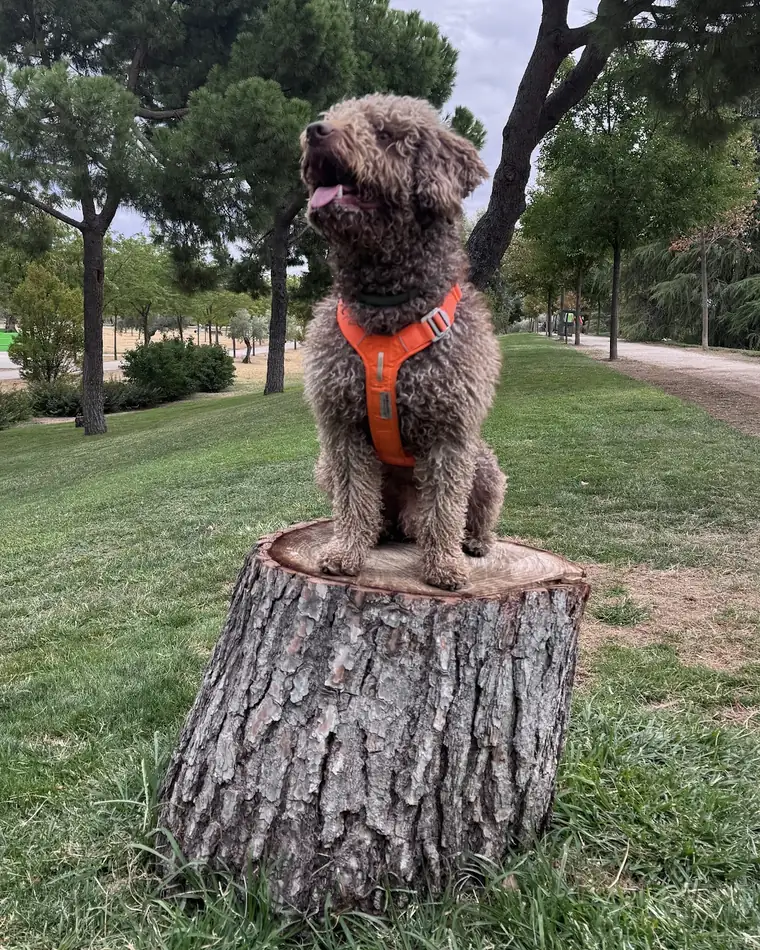
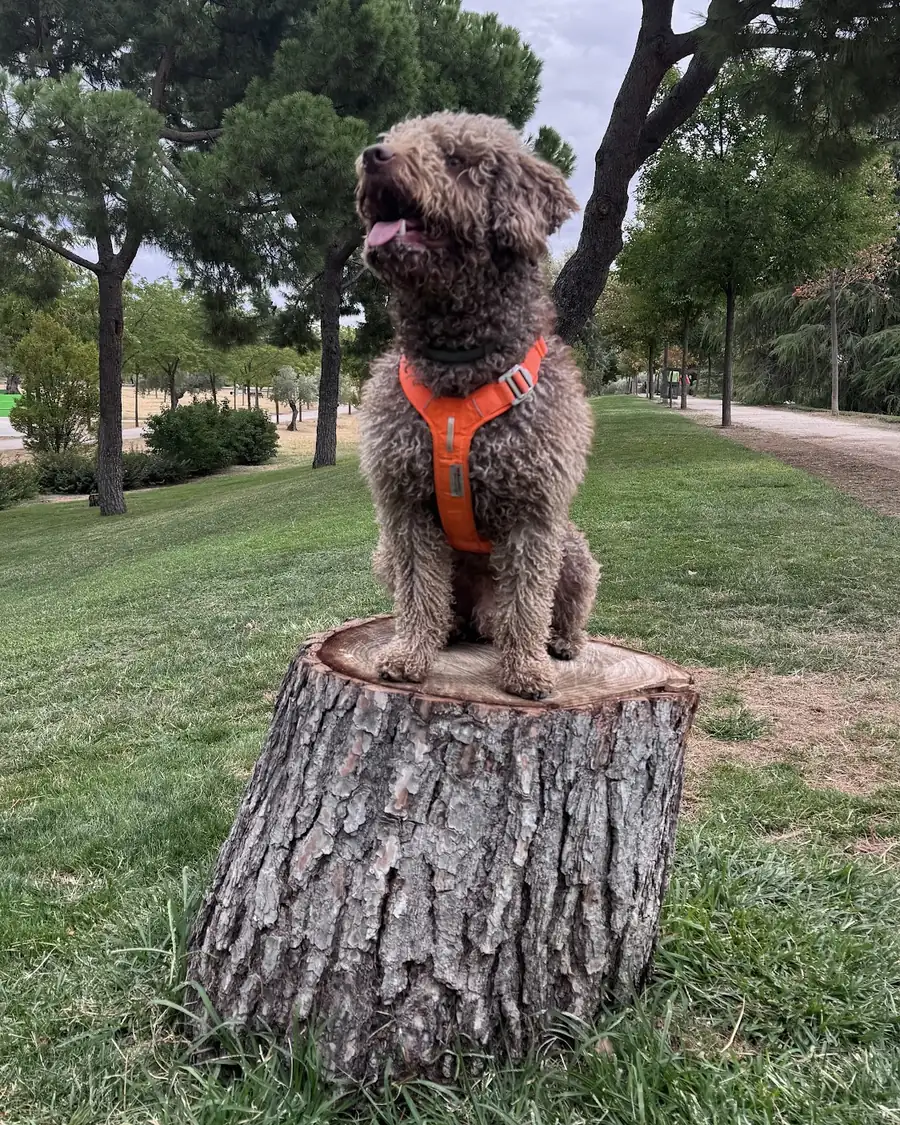
J'a Dog: las fotos de los animales pasan a ser lo principal
- Fotos nuevas de su ficha de Google: perritos en la bañera de spa, perro
  rizado en la mesa de trabajo, perrito blanco en la mesa y el salón con las
  peluqueras y un perro. Fuera la de la estantería y la de la pared.
- Escritorio: foto del perro grande en la portada con el logo como sello,
  fotos mucho mayores en cada lámina y una foto nueva en spa, escuela y cita.
- Móvil: foto a sangre arriba de cada lámina (antes la portada, el
  mantenimiento y la peluquería no llevaban ninguna) y la pausa fija la parte
  de arriba para que la foto se vea.
- iPad en vertical: láminas apiladas con la foto arriba.

diff --git a/jadog-cuaderno-de-campo/index.html b/jadog-cuaderno-de-campo/index.html
@@ -231,7 +231,7 @@ button{font:inherit;color:inherit;background:none;border:0;padding:0;margin:0;cu
 .menu-pie p{margin:12px 0 0;font-size:14px;line-height:1.5;color:var(--tinta-2)}
 
 /* ---------- 0 · portada ---------- */
-.portada-grid{display:grid;grid-template-columns:minmax(0,1.1fr) minmax(0,.9fr);grid-template-areas:"texto cumbre";gap:clamp(24px,5vw,72px);align-items:center}
+.portada-grid{display:grid;grid-template-columns:minmax(0,1fr) minmax(0,1fr);grid-template-areas:"texto cumbre";gap:clamp(24px,5vw,72px);align-items:center}
 .portada-texto{grid-area:texto}
 .portada h1{font-size:clamp(3.4rem, 8.6vw, 8rem);line-height:.9;letter-spacing:-.02em;font-weight:400;margin-bottom:26px}
 .portada h1 em{display:inline-block;color:var(--liquen);margin-left:.45em}
@@ -240,10 +240,10 @@ button{font:inherit;color:inherit;background:none;border:0;padding:0;margin:0;cu
 .nota-google{display:flex;align-items:center;gap:12px;font:500 14px/1.2 var(--f-cond);letter-spacing:.12em;text-transform:uppercase;color:rgba(232,211,180,.72);margin:0}
 .nota-google b{font:400 2.4rem/1 var(--f-serif);letter-spacing:0;color:var(--pergamino);text-transform:none}
 .estrellas{color:var(--liquen);letter-spacing:.1em}
-.cumbre{grid-area:cumbre;position:relative;width:min(100%, 62vh, 520px);aspect-ratio:1/1.04;justify-self:center}
-.cumbre .logo{position:absolute;left:0;top:0;width:82%;height:auto;overflow:visible;filter:drop-shadow(0 26px 40px rgba(0,0,0,.45))}
-.ejemplar{position:absolute;right:0;bottom:0;width:44%;transform:rotate(4deg)}
-.ejemplar .foto{aspect-ratio:760/950}
+.cumbre{grid-area:cumbre;position:relative;width:min(100%, 70vh, 600px);aspect-ratio:1/1.06;justify-self:center}
+.cumbre .logo{position:absolute;left:-2%;top:-2%;width:50%;z-index:3;height:auto;overflow:visible;filter:drop-shadow(0 26px 40px rgba(0,0,0,.45))}
+.ejemplar{position:absolute;right:0;bottom:0;width:80%;transform:rotate(2.4deg)}
+.ejemplar .foto{aspect-ratio:900/1125}
 .colgante{position:absolute;left:-34px;bottom:12%;z-index:2;background:var(--pergamino-2) var(--grano);color:var(--tinta);padding:9px 13px 9px 25px;
   font:600 11px/1.25 var(--f-cond);letter-spacing:.14em;text-transform:uppercase;transform:rotate(-9deg);transform-origin:100% 50%;
   clip-path:polygon(16px 0,100% 0,100% 100%,16px 100%,0 50%);box-shadow:0 8px 18px -10px rgba(0,0,0,.6)}
@@ -256,14 +256,14 @@ button{font:inherit;color:inherit;background:none;border:0;padding:0;margin:0;cu
 @keyframes gotea{to{background-position-y:14px}}
 
 /* ---------- 1 · antes de que lo necesite ---------- */
-.antes-grid{display:grid;grid-template-columns:minmax(0,1fr) minmax(0,1.05fr);gap:clamp(28px,5vw,80px);align-items:center}
+.antes-grid{display:grid;grid-template-columns:minmax(0,.72fr) minmax(0,1.28fr);gap:clamp(28px,5vw,80px);align-items:center}
 .antes-grid .h2{max-width:11ch;margin-bottom:22px}
 .tarifa{display:flex;align-items:center;gap:14px;margin-top:22px;padding:14px 16px;border:1.5px solid rgba(47,90,60,.45);max-width:470px}
 .tarifa svg{width:40px;height:40px;flex:none;stroke:var(--bosque);fill:none;stroke-width:1.4;stroke-linecap:round}
 .tarifa p{margin:0;font-size:15.5px;line-height:1.4}
 .tarifa b{display:block;font:500 1.25rem/1.15 var(--f-serif)}
 .antes-foto{position:relative;padding-bottom:40px}
-.antes-foto .marco{max-width:calc(75vh + 18px)}
+.antes-foto .marco{max-width:calc(98vh + 18px)}
 .antes-foto .marco .foto{aspect-ratio:1300/794}
 .todavia{position:absolute;left:-28px;bottom:0;width:min(290px,70%);transform:rotate(-2deg)}
 .todavia h3{font-size:1.5rem;margin-bottom:8px}
@@ -272,7 +272,7 @@ button{font:inherit;color:inherit;background:none;border:0;padding:0;margin:0;cu
 .todavia .mano{margin-top:10px;font-size:1.45rem}
 
 /* ---------- 2 · peluquería canina ---------- */
-.pelu-grid{display:grid;grid-template-columns:minmax(0,1.55fr) minmax(0,.75fr);gap:clamp(28px,4vw,64px);align-items:center}
+.pelu-grid{display:grid;grid-template-columns:minmax(0,1.15fr) minmax(0,1fr);gap:clamp(28px,4vw,64px);align-items:center}
 .pelu-grid .h2{margin-bottom:10px}
 .pelu-grid .entrada{margin-bottom:18px}
 .mantos li{display:grid;grid-template-columns:minmax(0,.8fr) minmax(0,1fr) minmax(0,1.35fr);gap:18px;align-items:baseline;padding:13px 0;border-top:1px solid rgba(232,211,180,.16)}
@@ -282,24 +282,29 @@ button{font:inherit;color:inherit;background:none;border:0;padding:0;margin:0;cu
 .razas{margin:0;font-size:14.5px;color:rgba(232,211,180,.62)}
 .tecnicas{margin:0;font-size:16px;color:var(--pergamino)}
 .pelu-pie{display:flex;flex-wrap:wrap;gap:6px 22px;margin-top:16px;font:600 12.5px/1.4 var(--f-cond);letter-spacing:.14em;text-transform:uppercase;color:var(--liquen)}
-.pelu-foto .foto{aspect-ratio:1100/885}
-.pelu-foto{transform:rotate(2.5deg)}
+.pelu-foto .foto{aspect-ratio:1300/1046}
+.pelu-foto{transform:rotate(2.2deg);width:84%;margin-left:auto}
+/* peluquería: el caniche en grande y el perrito de la mesa asomando por debajo */
+@media (min-width:761px){.pelu-grid .h2{font-size:clamp(2.3rem,4.4vw,3.9rem)}}
+.pelu-fotos{position:relative;width:100%;max-width:560px;justify-self:end;padding-bottom:56px}
+.pelu-foto2{position:absolute;left:0;bottom:0;width:48%;transform:rotate(-4deg)}
+.pelu-foto2 .foto{aspect-ratio:1000/687}
 
 /* ---------- 3 · spa ---------- */
-.spa-grid{display:grid;grid-template-columns:minmax(0,1.3fr) minmax(0,.7fr);gap:clamp(28px,5vw,80px);align-items:center}
+.spa-grid{display:grid;grid-template-columns:minmax(0,1.1fr) minmax(0,.9fr);gap:clamp(28px,5vw,80px);align-items:center}
 .spa-grid .entrada{margin:18px 0}
 .tres{display:flex;flex-wrap:wrap;gap:8px;margin:0 0 18px}
 .tres span{font:600 13.5px/1 var(--f-cond);letter-spacing:.16em;text-transform:uppercase;padding:11px 14px;border:1.5px solid rgba(47,90,60,.5);color:var(--bosque)}
 .ayuda{display:flex;flex-wrap:wrap;gap:4px 16px;font:400 1.2rem/1.5 var(--f-serif);margin-bottom:22px;max-width:560px}
 .ayuda li{position:relative;padding-left:15px}
 .ayuda li::before{content:"";position:absolute;left:0;top:.62em;width:6px;height:6px;border-radius:50%;border:1.5px solid var(--bosque)}
-.spa-foto{transform:rotate(-2deg);max-width:calc(43vh + 18px);justify-self:end}
-.spa-foto .foto{aspect-ratio:800/1067}
+.spa-foto{transform:rotate(-2deg);max-width:calc(52vh + 18px);justify-self:end}
+.spa-foto .foto{aspect-ratio:1100/1467}
 
 /* ---------- 4 · gatos ---------- */
-.gatos-grid{display:grid;grid-template-columns:minmax(0,.72fr) minmax(0,1.28fr);gap:clamp(28px,5vw,80px);align-items:center}
-.gato{transform:rotate(-2deg);max-width:calc(54vh + 18px)}
-.gato .foto{aspect-ratio:900/984}
+.gatos-grid{display:grid;grid-template-columns:minmax(0,.85fr) minmax(0,1.15fr);gap:clamp(28px,5vw,80px);align-items:center}
+.gato{transform:rotate(-2deg);max-width:calc(62vh + 18px)}
+.gato .foto{aspect-ratio:1100/1203}
 .gatos-grid .h2{margin-bottom:20px}
 .gatos-grid p:not(.mano):not(.antetitulo){max-width:52ch;color:rgba(232,211,180,.84)}
 .servicios-gato{display:flex;flex-wrap:wrap;align-items:center;gap:8px 10px;margin:18px 0}
@@ -310,7 +315,7 @@ button{font:inherit;color:inherit;background:none;border:0;padding:0;margin:0;cu
 /* ---------- 5 · quién ---------- */
 .quien .h2{margin-bottom:34px}
 .personas{display:grid;grid-template-columns:repeat(2,minmax(0,1fr));gap:clamp(24px,4vw,64px)}
-.persona{display:grid;grid-template-columns:190px minmax(0,1fr);gap:24px;align-items:start}
+.persona{display:grid;grid-template-columns:236px minmax(0,1fr);gap:24px;align-items:start}
 .polaroid{margin:0;background:var(--pergamino-2);padding:7px 7px 30px;transform:rotate(-3deg);box-shadow:0 18px 30px -20px rgba(15,5,10,.7);position:relative}
 .persona:nth-child(2) .polaroid{transform:rotate(2.5deg)}
 .polaroid::before{content:"";position:absolute;top:-11px;left:50%;width:66px;height:22px;margin-left:-33px;background:rgba(170,184,140,.78);transform:rotate(-4deg)}
@@ -325,7 +330,14 @@ button{font:inherit;color:inherit;background:none;border:0;padding:0;margin:0;cu
 .chips li::before{content:"";position:absolute;left:9px;top:50%;width:6px;height:6px;margin-top:-3px;border-radius:50%;background:var(--bosque)}
 
 /* ---------- 6 · escuela ---------- */
-.escuela .h2{margin-bottom:12px}
+.escuela-grid{display:grid;grid-template-columns:minmax(0,1fr) minmax(0,.5fr);gap:clamp(28px,4vw,64px);align-items:center}
+.escuela-foto{transform:rotate(2deg);max-width:calc(48vh + 18px);justify-self:end}
+.escuela-foto .foto{aspect-ratio:1100/1467}
+@media (min-width:761px){
+  .escuela-grid .curso b{font-size:clamp(2.6rem,4.2vw,3.6rem)}
+  .escuela-grid .curso b.medida{font-size:clamp(1.8rem,3vw,2.4rem);line-height:1.15;padding-top:.3em}
+}
+.escuela .h2{margin-bottom:24px}
 .escuela .entrada{margin-bottom:30px}
 .cursos{display:grid;grid-template-columns:repeat(3,minmax(0,1fr));border-top:1px solid rgba(232,211,180,.2)}
 .curso{padding:22px 26px 0 0}
@@ -350,7 +362,7 @@ button{font:inherit;color:inherit;background:none;border:0;padding:0;margin:0;cu
 .kraft cite{display:block;margin-top:10px;font:600 11.5px/1 var(--f-cond);letter-spacing:.14em;text-transform:uppercase;font-style:normal;color:var(--tinta-2)}
 
 /* ---------- 8 · cita ---------- */
-.cita-grid{display:grid;grid-template-columns:minmax(0,1.2fr) minmax(0,.8fr);gap:clamp(28px,5vw,80px);align-items:center}
+.cita-grid{display:grid;grid-template-columns:minmax(0,1fr) minmax(0,1fr);gap:clamp(28px,5vw,80px);align-items:center}
 .cita .h2{margin-bottom:18px}
 .telefono{display:inline-flex;align-items:center;gap:14px;text-decoration:none;font:400 clamp(2.4rem,4.4vw,3.2rem)/1 var(--f-serif);color:var(--pergamino);padding:6px 0 10px;border-bottom:2px solid var(--liquen)}
 .telefono svg{width:.8em;height:.8em;stroke:var(--liquen);fill:none;stroke-width:1.6;stroke-linecap:round;stroke-linejoin:round}
@@ -360,8 +372,8 @@ button{font:inherit;color:inherit;background:none;border:0;padding:0;margin:0;cu
 .horario div dd{margin:4px 0 0;font:500 1.15rem/1.2 var(--f-serif)}
 .direccion{font-size:16px;color:rgba(232,211,180,.84);margin:0}
 .direccion a{color:var(--liquen)}
-.local .foto{aspect-ratio:900/1200}
-.local{transform:rotate(2deg);max-width:calc(39vh + 18px);justify-self:end}
+.local .foto{aspect-ratio:1500/1125}
+.local{transform:rotate(2deg);max-width:calc(72vh + 18px);justify-self:end}
 .direccion .senda{font:inherit;color:var(--liquen)}
 /* redes sociales: Instagram y Facebook */
 .redes{display:flex;flex-wrap:wrap;gap:8px;margin:16px 0 0}
@@ -397,38 +409,63 @@ button{font:inherit;color:inherit;background:none;border:0;padding:0;margin:0;cu
 .firma p{margin:0;font-size:12.5px;line-height:1.45;color:var(--tinta-3);max-width:46ch}
 .firma p b{display:block;font:400 italic 1.25rem/1.2 var(--f-serif);color:var(--tinta);margin-bottom:3px}
 
+/* ---------- tabletas ---------- */
+@media (min-width:761px) and (max-width:1060px){
+  .pelu-grid{grid-template-columns:minmax(0,1.5fr) minmax(0,.8fr)}
+  .pelu-fotos{padding-bottom:0}
+  .pelu-foto2{display:none}
+  .pelu-foto{width:100%}
+  .escuela-grid{grid-template-columns:1fr}
+  .escuela-foto{display:none}
+  .antes-grid{grid-template-columns:minmax(0,.9fr) minmax(0,1.1fr)}
+}
+/* iPad en vertical: la portada se apila y el perro se ve grande */
+@media (min-width:761px) and (max-width:1060px) and (orientation:portrait){
+  .portada-grid{grid-template-columns:1fr;grid-template-areas:"cumbre" "texto";gap:clamp(28px,5vh,56px);justify-items:center}
+  .portada-texto{width:100%;max-width:640px}
+  .cumbre{width:min(78vw,40vh,480px)}
+  .portada-grid{gap:clamp(24px,3.5vh,40px)}
+  .pelu-pie,.pelu-grid .entrada{display:none}
+  .antes-grid,.pelu-grid,.spa-grid,.gatos-grid{grid-template-columns:1fr;gap:clamp(20px,3vh,36px)}
+  .antes-foto{order:-1;width:100%;max-width:600px;justify-self:center}
+  .antes-foto .marco{max-width:none}
+  .pelu-fotos{order:-1;max-width:470px;justify-self:center;padding-bottom:44px}
+  .pelu-foto{width:84%}
+  .pelu-foto2{display:block}
+  .cita-grid{grid-template-columns:1fr;gap:clamp(20px,3vh,36px)}
+  .local{order:-1;justify-self:center;width:100%;max-width:min(520px,calc(40vh + 40px))}
+  .cita .entrada{display:none}
+  .spa-foto{order:-1;justify-self:center;max-width:calc(34vh + 18px)}
+  .gato{justify-self:center;max-width:calc(34vh + 18px)}
+}
+
 /* ---------- móvil ---------- */
 @media (max-width:760px){
   body{font-size:16px}
-  .ancho,.ejemplar,.bajar{display:none!important}
+  .ancho,.bajar{display:none!important}
   .hoja-fija{padding-top:96px}
   :root{--descanso:45vh}
   .antetitulo{margin-bottom:10px}
-  .portada-grid{grid-template-columns:1fr;grid-template-areas:"cumbre" "texto";gap:20px}
-  .cumbre{width:min(52vw, 230px);aspect-ratio:1;justify-self:start}
-  .cumbre .logo{width:100%}
+  .portada .hoja-fija{padding-top:0}
+  .portada-grid{grid-template-columns:1fr;grid-template-areas:"cumbre" "texto";gap:0}
+  .portada-texto{padding-top:62px}
   .portada h1{font-size:13.5vw}
   .acciones .btn{flex:1 1 auto;justify-content:center}
   .nota-google b{font-size:1.9rem}
   .h2{font-size:10.4vw}
-  .antes-grid,.pelu-grid,.spa-grid,.gatos-grid,.huellas-grid,.cita-grid,.llegar-grid{grid-template-columns:1fr;gap:22px}
+  .antes-grid,.pelu-grid,.spa-grid,.gatos-grid,.huellas-grid,.cita-grid,.llegar-grid,.escuela-grid{grid-template-columns:1fr;gap:22px}
   .rutas li{grid-template-columns:82px 1fr;gap:10px;padding:9px 0}
   .rutas p{font-size:14.5px}
   .mapa{transform:none}
   .panel{padding:20px 18px}
   .panel-datos div{grid-template-columns:66px 1fr}
-  .antes-foto{display:none}
   .todavia-movil{display:block!important;position:static;width:auto;transform:rotate(-1.2deg);margin-top:18px}
   .mantos li{grid-template-columns:1fr;gap:3px;padding:11px 0}
   .mantos h3 small{display:inline;margin:0 0 0 8px}
   .razas{display:none}
   .tecnicas{font-size:15px}
-  .gato{transform:none;max-width:none}
-  .gato .foto{aspect-ratio:auto;height:210px}
-  .gato .foto img{object-position:50% 30%}
-  .gato figcaption{display:none}
   .personas{grid-template-columns:1fr;gap:26px}
-  .persona{grid-template-columns:104px minmax(0,1fr);gap:18px}
+  .persona{grid-template-columns:124px minmax(0,1fr);gap:18px}
   .polaroid{padding:5px 5px 6px}
   .polaroid figcaption,.polaroid::before{display:none}
   .persona h3{font-size:1.8rem}
@@ -451,6 +488,33 @@ button{font:inherit;color:inherit;background:none;border:0;padding:0;margin:0;cu
   .rotulo > a,.rotulo > span,.rotulo > button{padding:0 11px;min-height:42px}
   .menu{left:10px;width:calc(100vw - 20px)}
   .hito .etiqueta{display:none}
+
+  /* ---- las fotos de animales, a sangre y pegadas arriba de cada lámina ---- */
+  .cumbre{width:auto;margin:0 calc(-1 * var(--lado));aspect-ratio:auto;height:clamp(250px,44vh,400px);justify-self:stretch}
+  .ejemplar{position:absolute;inset:0;width:auto;transform:none;padding:0;background:none;box-shadow:none}
+  .ejemplar .foto{height:100%;aspect-ratio:auto}
+  .ejemplar .foto img{object-position:50% 3%}
+  .ejemplar::after{content:"";position:absolute;left:0;right:0;bottom:0;height:42%;background:linear-gradient(rgba(30,13,23,0),var(--noche));pointer-events:none}
+  .cumbre .logo{left:var(--lado);top:auto;bottom:-50px;width:min(34vw,140px)}
+  .colgante{left:auto;right:12px;bottom:14px;padding:7px 10px 7px 21px;font-size:9.5px;transform:rotate(-4deg);transform-origin:100% 50%}
+  .colgante span{font-size:1rem}
+  .antes-foto .marco,.spa-foto,.gato,.escuela-foto,.local,.pelu-fotos .marco{max-width:none;transform:none;padding:0;background:none;box-shadow:none;margin:0;width:auto}
+  .antes-foto,.spa-foto,.gato,.escuela-foto,.local,.pelu-fotos{order:-1;margin:-96px calc(-1 * var(--lado)) 0;padding:0;max-width:none;justify-self:stretch;transform:none}
+  .antes-foto .marco .foto,.spa-foto .foto,.gato .foto,.escuela-foto .foto,.local .foto,.pelu-fotos .foto{aspect-ratio:auto;height:clamp(205px,33vh,285px)}
+  .marco figcaption{display:none}
+  .antes-foto .todavia{display:none}
+  .pelu-fotos{display:grid;grid-template-columns:1fr 1fr}
+  .pelu-foto2{position:static}
+  .antes-foto .foto img{object-position:50% 40%}
+  .spa-foto .foto img{object-position:50% 26%}
+  .gato .foto img{object-position:50% 28%}
+  .escuela-foto .foto img{object-position:50% 24%}
+  .local .foto img{object-position:50% 72%}
+  /* para que la foto, el titular y lo esencial quepan en la pantalla durante la pausa */
+  .antes-grid .entrada,.escuela .entrada,.cita .entrada,.pelu-pie,.spa-grid .ayuda,.gatos-grid [data-f="70"]{display:none}
+  .antes-grid .h2{max-width:none}
+  .mantos li{padding:8px 0}
+  .curso,.curso + .curso{padding:10px 0}
 }
 .todavia-movil{display:none}
 /* móviles estrechos: el rótulo deja solo el número de la lámina */
@@ -644,7 +708,7 @@ button{font:inherit;color:inherit;background:none;border:0;padding:0;margin:0;cu
 <text x="51.33" y="57.58" textLength="15.96" lengthAdjust="spacingAndGlyphs" font-family="'Barlow', 'Gill Sans', sans-serif" font-weight="500" font-size="2.93" fill="#3a6444">Pet Care</text></g>
 </svg>
       <figure class="ejemplar marco" data-p="foto">
[2 lines of base64/hex data omitted]
         <p class="colgante">Ejemplar observado<span>perro de agua, manto rizado</span></p>
       </figure>
     </div>
@@ -655,7 +719,7 @@ button{font:inherit;color:inherit;background:none;border:0;padding:0;margin:0;cu
 </section>
 
 <!-- ============ I · ANTES DE QUE LO NECESITE ============ -->
-<section id="antes" class="hoja reposo papel" data-num="I" data-titulo="Mantenimiento">
+<section id="antes" data-pin-arriba class="hoja reposo papel" data-num="I" data-titulo="Mantenimiento">
   <div class="hoja-fija">
   <svg class="topo" viewBox="0 0 1240 760" preserveAspectRatio="xMidYMid slice" aria-hidden="true"><use href="#topo-b" x="560" y="200"/></svg>
   <div class="hoja-cuerpo antes-grid">
@@ -697,7 +761,7 @@ button{font:inherit;color:inherit;background:none;border:0;padding:0;margin:0;cu
 </section>
 
 <!-- ============ II · PELUQUERÍA CANINA ============ -->
-<section id="peluqueria" class="hoja reposo oscura" data-num="II" data-titulo="Peluquería canina">
+<section id="peluqueria" data-pin-arriba class="hoja reposo oscura" data-num="II" data-titulo="Peluquería canina">
   <div class="hoja-fija">
   <svg class="topo" viewBox="0 0 1240 760" preserveAspectRatio="xMidYMid slice" aria-hidden="true"><use href="#topo-a" x="-260" y="140"/></svg>
   <div class="hoja-cuerpo pelu-grid">
@@ -714,17 +778,22 @@ button{font:inherit;color:inherit;background:none;border:0;padding:0;margin:0;cu
       </ol>
       <p class="pelu-pie" data-p="deriva" data-f="90"><span>Alta cosmética</span><span>Uñas y oídos</span><span>Precio según su tiempo</span></p>
     </div>
-    <figure class="marco pelu-foto ancho" data-p="foto">
[1 lines of base64/hex data omitted]
-      <figcaption>Caniche, manto rizado</figcaption>
-    </figure>
+    <div class="pelu-fotos">
+      <figure class="marco pelu-foto" data-p="foto">
[1 lines of base64/hex data omitted]
+        <figcaption>Caniche, manto rizado</figcaption>
+      </figure>
+      <figure class="marco pelu-foto2" data-p="foto">
[1 lines of base64/hex data omitted]
+      </figure>
+    </div>
   </div>
   <p class="hito"><span class="sello">II</span><span class="etiqueta">Lámina II · Peluquería canina</span></p>
   </div>
 </section>
 
 <!-- ============ III · SPA ============ -->
-<section id="spa" class="hoja reposo papel" data-num="III" data-titulo="Spa">
+<section id="spa" data-pin-arriba class="hoja reposo papel" data-num="III" data-titulo="Spa">
   <div class="hoja-fija">
   <svg class="topo" viewBox="0 0 1240 760" preserveAspectRatio="xMidYMid slice" aria-hidden="true"><use href="#topo-b" x="-120" y="-80"/></svg>
   <div class="hoja-cuerpo spa-grid">
@@ -736,9 +805,9 @@ button{font:inherit;color:inherit;background:none;border:0;padding:0;margin:0;cu
       <ul class="ayuda" data-p="deriva" data-f="120"><li>caspa</li><li>sebo</li><li>alergias</li><li>caída de pelo</li><li>mal olor</li><li>hongos</li><li>bacterias</li><li>inflamación</li></ul>
       <a class="btn btn-lleno" href="tel:+34636766197" data-p="deriva" data-f="140">Pregúntanos sin compromiso</a>
     </div>
-    <figure class="marco spa-foto ancho" data-p="foto">
[1 lines of base64/hex data omitted]
-      <figcaption>Alta cosmética en la tienda</figcaption>
+    <figure class="marco spa-foto" data-p="foto">
[1 lines of base64/hex data omitted]
+      <figcaption>Bañera de spa</figcaption>
     </figure>
   </div>
   <p class="hito"><span class="sello">III</span><span class="etiqueta">Lámina III · Spa</span></p>
@@ -746,12 +815,12 @@ button{font:inherit;color:inherit;background:none;border:0;padding:0;margin:0;cu
 </section>
 
 <!-- ============ IV · GATOS ============ -->
-<section id="gatos" class="hoja reposo oscura" data-num="IV" data-titulo="Gatos">
+<section id="gatos" data-pin-arriba class="hoja reposo oscura" data-num="IV" data-titulo="Gatos">
   <div class="hoja-fija">
   <svg class="topo" viewBox="0 0 1240 760" preserveAspectRatio="xMidYMid slice" aria-hidden="true"><use href="#topo-a" x="420" y="260"/></svg>
   <div class="hoja-cuerpo gatos-grid">
     <figure class="marco gato" data-p="foto">
[2 lines of base64/hex data omitted]
       <figcaption>Con el mínimo estrés</figcaption>
     </figure>
     <div>
@@ -804,10 +873,11 @@ button{font:inherit;color:inherit;background:none;border:0;padding:0;margin:0;cu
 </section>
 
 <!-- ============ VI · ESCUELA ============ -->
-<section id="escuela" class="hoja reposo oscura escuela" data-num="VI" data-titulo="Escuela">
+<section id="escuela" data-pin-arriba class="hoja reposo oscura escuela" data-num="VI" data-titulo="Escuela">
   <div class="hoja-fija">
   <svg class="topo" viewBox="0 0 1240 760" preserveAspectRatio="xMidYMid slice" aria-hidden="true"><use href="#topo-a" x="-40" y="-240"/></svg>
-  <div class="hoja-cuerpo">
+  <div class="hoja-cuerpo escuela-grid">
+   <div>
     <p class="antetitulo" data-p="deriva" data-f="40">Escuela de peluquería</p>
     <h2 class="h2" data-p="palabras">Haz de tu pasión <em>tu profesión</em></h2>
     <p class="entrada" data-p="deriva" data-f="70">Prácticas reales con perros y gatos desde el primer día, clases personalizadas y un horario que se adapta al tuyo.</p>
@@ -820,6 +890,11 @@ button{font:inherit;color:inherit;background:none;border:0;padding:0;margin:0;cu
       <a class="btn btn-lleno" href="tel:+34636766197">Reserva una clase gratis</a>
       <button class="btn btn-linea" type="button" data-panel="temario" aria-controls="panel-temario">Ver el temario</button>
     </div>
+   </div>
+   <figure class="marco escuela-foto" data-p="foto">
[1 lines of base64/hex data omitted]
+     <figcaption>En la mesa de trabajo</figcaption>
+   </figure>
   </div>
   <p class="hito"><span class="sello">VI</span><span class="etiqueta">Lámina VI · Escuela</span></p>
   </div>
@@ -854,7 +929,7 @@ button{font:inherit;color:inherit;background:none;border:0;padding:0;margin:0;cu
 </section>
 
 <!-- ============ VIII · PIDE CITA ============ -->
-<section id="cita" class="hoja reposo oscura cita" data-num="VIII" data-titulo="Pide cita">
+<section id="cita" data-pin-arriba class="hoja reposo oscura cita" data-num="VIII" data-titulo="Pide cita">
   <div class="hoja-fija">
   <svg class="topo" viewBox="0 0 1240 760" preserveAspectRatio="xMidYMid slice" aria-hidden="true"><use href="#topo-a" x="300" y="-60"/></svg>
   <div class="hoja-cuerpo cita-grid">
@@ -871,9 +946,9 @@ button{font:inherit;color:inherit;background:none;border:0;padding:0;margin:0;cu
       <p class="direccion" data-p="deriva" data-f="130">Calle de Teresa Claramunt, 11 · 28919 Leganés · <button type="button" class="senda" data-ir="llegar">cómo llegar</button> · <a class="senda" href="mailto:info@jadogmadrid.com">info@jadogmadrid.com</a></p>
       <p class="redes" data-p="deriva" data-f="150"><a class="red" href="https://www.instagram.com/jadog.andrealonso/" target="_blank" rel="noopener"><svg viewBox="0 0 24 24" aria-hidden="true"><rect x="3" y="3" width="18" height="18" rx="5"/><circle cx="12" cy="12" r="4.2"/><circle cx="17.4" cy="6.6" r=".9"/></svg>Instagram</a><a class="red" href="https://www.facebook.com/jadogmadrid/" target="_blank" rel="noopener"><svg viewBox="0 0 24 24" aria-hidden="true"><path d="M14 21v-7h3l.6-3.5H14V8.6c0-1 .5-1.6 1.7-1.6h2V3.9c-.6-.1-1.6-.2-2.7-.2-2.8 0-4.5 1.7-4.5 4.7v2.1H7.4V14h3.1v7"/></svg>Facebook</a></p>
     </div>
-    <figure class="marco local ancho" data-p="foto">
[1 lines of base64/hex data omitted]
-      <figcaption>El local, por dentro</figcaption>
+    <figure class="marco local" data-p="foto">
[1 lines of base64/hex data omitted]
+      <figcaption>El salón, por dentro</figcaption>
     </figure>
   </div>
   <p class="hito"><span class="sello">VIII</span><span class="etiqueta">Lámina VIII · Pide cita</span></p>
@@ -1143,7 +1218,7 @@ button{font:inherit;color:inherit;background:none;border:0;padding:0;margin:0;cu
       var fija = h.querySelector('.hoja-fija');
       h._top = h.offsetTop;
       if (h.classList.contains('reposo') && !quieto) {
-        var f = Math.min(0, Hv - fija.offsetHeight);
+        var f = h.hasAttribute('data-pin-arriba') ? 0 : Math.min(0, Hv - fija.offsetHeight);
         fija.style.setProperty('--fijo', f + 'px');
         h._fijo = f;
         h._alto = h.offsetHeight;

diff --git a/README.md b/README.md
@@ -14,7 +14,7 @@ carpeta y es un sitio estático independiente: se abre con doble clic sobre
 | [`clinica-dental-egle-estudio/`](clinica-dental-egle-estudio/) | Clínica Dental Egle — Leganés, Madrid | Clínica dental | Estudio: hueso y mármol, panel fijo con las dos consultas y los tratamientos como catálogo |
 | [`clinica-dental-egle-cian/`](clinica-dental-egle-cian/) | Clínica Dental Egle — Leganés y Madrid | Clínica dental | Cian: su propio blanco y azul de redes, en carpetas que se apilan al bajar, con entrada por síntoma |
 | [`asador-de-salamanca-horno/`](asador-de-salamanca-horno/) | El Asador de Salamanca — Leganés, Madrid | Asador y banquetes | Boca de horno: carbón y nogal, con el arco de ladrillo de su logo como ventana y las fotos abriéndose de abajo arriba |
-| [`jadog-cuaderno-de-campo/`](jadog-cuaderno-de-campo/) | J'a Dog Pet Care — Leganés, Madrid | Peluquería canina y felina | Cuaderno de campo: nueve láminas de una pantalla que se montan al bajar y se paran un momento, índice desplegable, ficha de cita, temario, cómo llegar con mapa y el lobo de su rombo nuevo (redibujado en vectores) recorriendo el sendero |
+| [`jadog-cuaderno-de-campo/`](jadog-cuaderno-de-campo/) | J'a Dog Pet Care — Leganés, Madrid | Peluquería canina y felina | Cuaderno de campo: nueve láminas de una pantalla con pausa al bajar y las fotos de sus perros y gatos en grande en cada una (a sangre en el móvil), índice desplegable, ficha de cita, temario, cómo llegar con mapa y el rombo de su marca nueva redibujado en vectores |
 | [`estudio-iris-visor/`](estudio-iris-visor/) | Estudio de fotografía infantil — Leganés, Madrid | Fotografía de recién nacido, infancia y familia | Visor: las cuatro esquinas de una cámara fijas en pantalla, nueve escenas que se funden al bajar (las sesiones por edad, las familias, el estudio y un mapa para llegar), fotos que entran enfocando como copias con margen blanco y su logo calcado en vectores |
 | [`comunicacion-global-pliego/`](comunicacion-global-pliego/) | Comunicación Global Gráfica — Madrid | Imprenta, gran formato y señalética | Pliego: cada sección es un pliego con marcas de corte y tira de control de color, los titulares se imprimen por pasadas CMYK hasta entrar en registro, menú como carta de color, presupuesto como orden de trabajo y el logo original sacado en vectores de su dossier |
 | [`comunicacion-global-sobria/`](comunicacion-global-sobria/) | Comunicación Global Gráfica — Madrid | Imprenta, gran formato y señalética | Sobria: papel, tinta y el azul del logo como único color, titulares en serif con cursiva, servicios como catálogo con filetes, fotos como láminas, índice a pantalla completa y presupuesto en una sección oscura con mapa |
